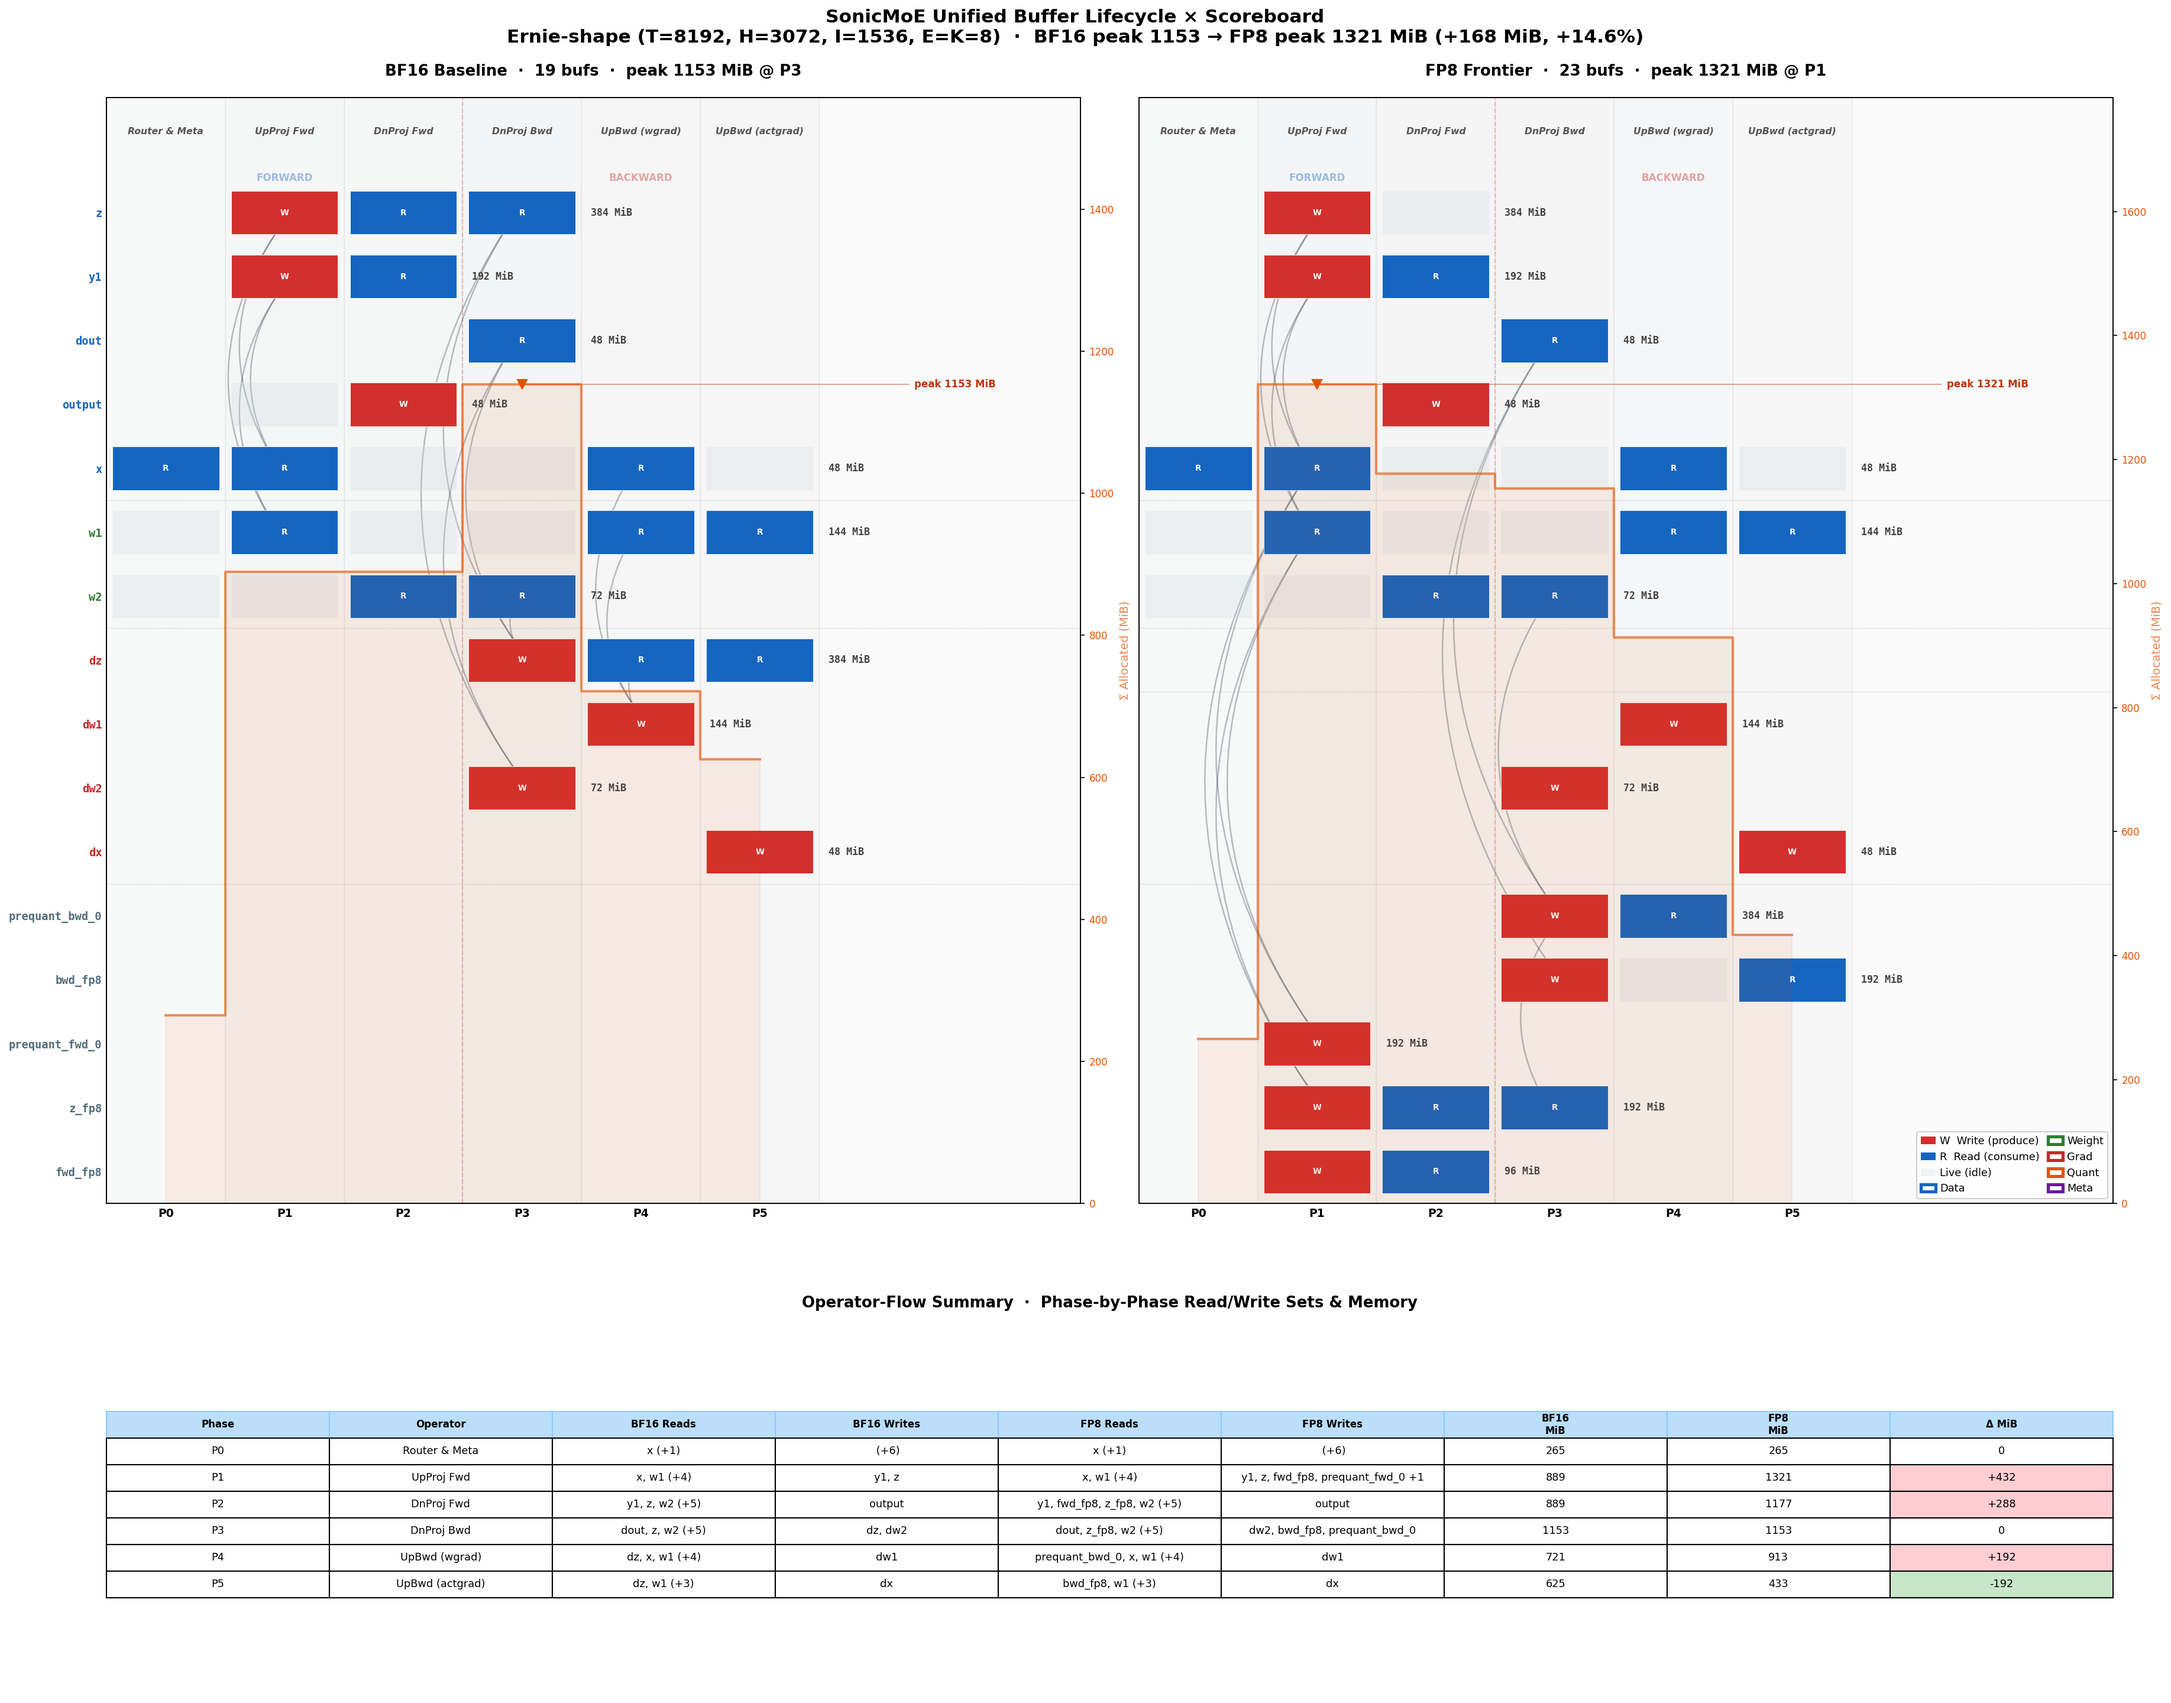
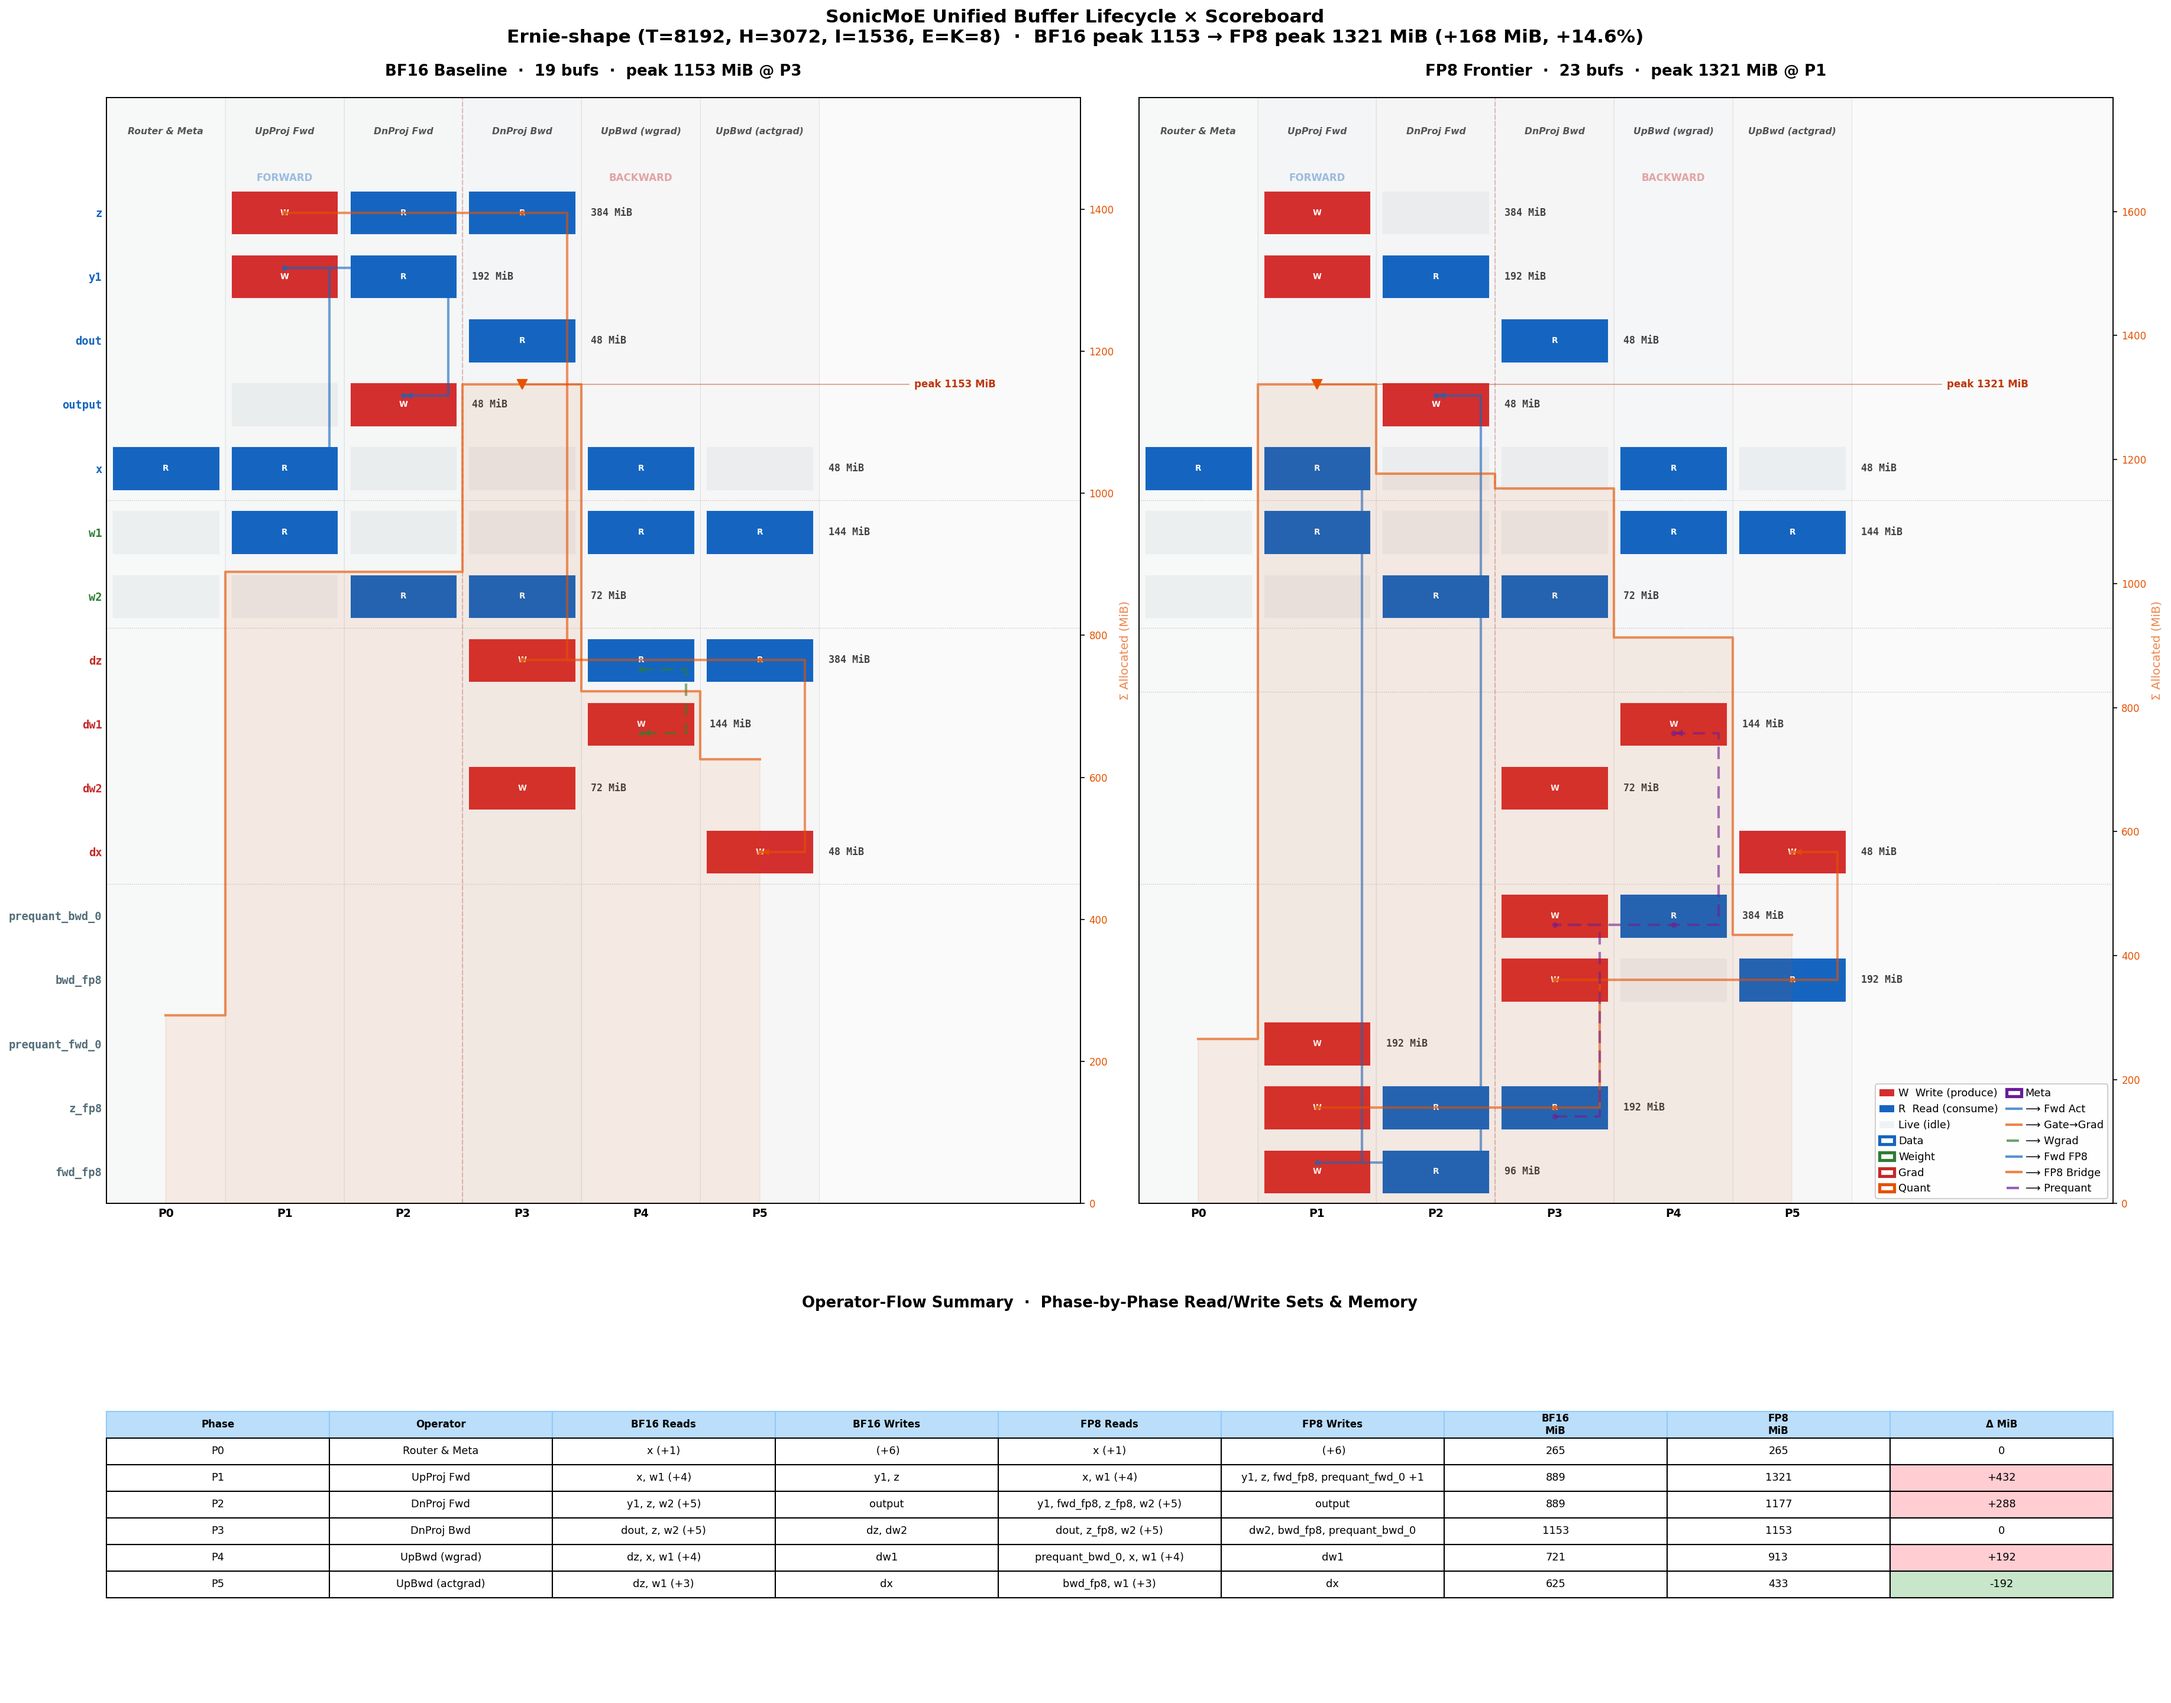
viz: replace DAG arc3 spaghetti with orthogonal chain polylines
Replace 12 overlapping arc3 curves (alpha=0.35, nearly invisible) with
3 critical-path dataflow chains per mode, drawn as clean orthogonal
polylines through the Gantt:

BF16: Fwd Act (x→y1→output), Gate→Grad (z→dz→dx), Wgrad (dz→dw1)
FP8:  Fwd FP8 (x→fwd_fp8→output), FP8 Bridge (z_fp8→bwd_fp8→dx),
      Prequant (z_fp8→prequant_bwd_0→dw1)

- Right-angle routing at same-phase transformations
- Horizontal carry-over for same-buffer cross-phase
- Directional arrowheads at chain termini
- Color-coded: blue=fwd, orange=bridge, green/purple=wgrad
- Chain legend entries integrated with existing legend

Changed region(s): [[0.8695, 0.625, 0.9627, 0.7188], [0.559, 0.375, 0.59, 0.4062]]

diff --git a/visualization/scoreboard_viz.py b/visualization/scoreboard_viz.py
@@ -22,6 +22,7 @@ import sys
 import matplotlib
 matplotlib.use("Agg")
 import matplotlib.pyplot as plt
+import matplotlib.lines as mlines
 import matplotlib.patches as mpatches
 import matplotlib.ticker as mticker
 import numpy as np
@@ -69,27 +70,94 @@ def _phase_mem(mode: dict) -> np.ndarray:
     return np.array([ph["alloc_mib"] for ph in mode["board"]])
 
 
-def _critical_flows(mode: dict, min_mib: float = 48) -> list[tuple]:
-    """Return [(src_buf, dst_buf, op_name, phase_idx), ...] for major flows."""
-    bufs = mode["bufs"]
-    flows = []
-    for op in mode["ops"]:
-        oname, phase = op["id"], op["phase"]
-        reads = [r for r in op["R"] if r in bufs and bufs[r]["mib"] >= min_mib]
-        writes = [w for w in op["W"] if w in bufs and bufs[w]["mib"] >= min_mib]
-        for r in reads:
-            for w in writes:
-                if r != w:
-                    flows.append((r, w, oname, phase))
-    flows.sort(key=lambda f: -bufs.get(f[1], {}).get("mib", 0))
-    seen = set()
-    unique = []
-    for f in flows:
-        key = (f[0], f[1], f[3])
-        if key not in seen:
-            seen.add(key)
-            unique.append(f)
-    return unique[:12]
+# ─── Critical dataflow chain definitions ─────────────────────────────
+# Waypoints: (buffer_name, phase_index).
+# Same-buffer consecutive = carry-over (horizontal).
+# Different-buffer = operator transformation (orthogonal right-angle routing).
+
+_CHAINS: dict[str, list[dict]] = {
+    "bf16": [
+        {"name": "Fwd Act",   "c": "#1565C0", "d": False,
+         "wps": [("x",1), ("y1",1), ("y1",2), ("output",2)]},
+        {"name": "Gate→Grad", "c": "#E65100", "d": False,
+         "wps": [("z",1), ("z",3), ("dz",3), ("dz",5), ("dx",5)]},
+        {"name": "Wgrad",     "c": "#2E7D32", "d": True,
+         "wps": [("dz",4), ("dw1",4)]},
+    ],
+    "fp8": [
+        {"name": "Fwd FP8",    "c": "#1565C0", "d": False,
+         "wps": [("x",1), ("fwd_fp8",1), ("fwd_fp8",2), ("output",2)]},
+        {"name": "FP8 Bridge",  "c": "#E65100", "d": False,
+         "wps": [("z_fp8",1), ("z_fp8",3), ("bwd_fp8",3), ("bwd_fp8",5), ("dx",5)]},
+        {"name": "Prequant",    "c": "#6A1B9A", "d": True,
+         "wps": [("z_fp8",3), ("prequant_bwd_0",3), ("prequant_bwd_0",4), ("dw1",4)]},
+    ],
+}
+
+
+def _draw_chains(ax: plt.Axes, mode_key: str,
+                 buf_idx: dict[str, int]) -> list[dict]:
+    """Draw critical-path dataflow chains as orthogonal polylines.
+
+    Returns list of chain defs that were actually rendered (for legend).
+    """
+    chains = _CHAINS.get(mode_key, [])
+    drawn: list[dict] = []
+    n = len(chains)
+
+    for ci, ch in enumerate(chains):
+        wps = [(b, p) for b, p in ch["wps"] if b in buf_idx]
+        if len(wps) < 2:
+            continue
+        drawn.append(ch)
+
+        color = ch["c"]
+        ls: object = (0, (5, 3)) if ch["d"] else "-"
+        v_off = (ci - (n - 1) / 2) * 0.14
+
+        # ── Build orthogonal path through the Gantt ──
+        path: list[tuple[float, float]] = []
+        for wi, (buf, phase) in enumerate(wps):
+            x, y = phase + 0.5, buf_idx[buf] + v_off
+            if wi == 0:
+                path.append((x, y))
+                continue
+            prev_buf, prev_ph = wps[wi - 1]
+            yp = buf_idx[prev_buf] + v_off
+            if prev_buf == buf:                          # carry-over
+                path.append((x, y))
+            elif prev_ph == phase:                       # same-phase op
+                x_jog = phase + 0.88
+                path.extend([(x_jog, yp), (x_jog, y), (x, y)])
+            else:                                        # cross-phase + buf
+                x_mid = max(prev_ph, phase) + 0.02
+                path.extend([(x_mid, yp), (x_mid, y), (x, y)])
+
+        if len(path) < 2:
+            continue
+
+        xs = [p[0] for p in path]
+        ys = [p[1] for p in path]
+
+        # Polyline shaft (with optional dashes)
+        ax.plot(xs, ys, color=color, lw=2.0, ls=ls, alpha=0.6, zorder=7,
+                solid_capstyle="round", solid_joinstyle="round")
+
+        # Arrowhead at terminus (invisible-shaft FancyArrowPatch)
+        arrow = mpatches.FancyArrowPatch(
+            (xs[-2], ys[-2]), (xs[-1], ys[-1]),
+            arrowstyle="-|>", color=color, lw=0.01,
+            alpha=0.7, mutation_scale=14, zorder=8,
+        )
+        ax.add_patch(arrow)
+
+        # Dots at actual waypoints (not routing-jog intermediates)
+        for buf, phase in wps:
+            if buf in buf_idx:
+                ax.plot(phase + 0.5, buf_idx[buf] + v_off, "o",
+                        color=color, ms=3.5, alpha=0.55, zorder=9)
+
+    return drawn
 
 
 # ═════════════════════════════════════════════════════════════════════════
@@ -97,7 +165,8 @@ def _critical_flows(mode: dict, min_mib: float = 48) -> list[tuple]:
 # ═════════════════════════════════════════════════════════════════════════
 
 def _draw_panel(ax: plt.Axes, mode: dict, buf_list: list[str],
-                title: str, show_ylabel: bool, draw_arrows: bool) -> None:
+                title: str, show_ylabel: bool,
+                mode_key: str = "") -> list[dict]:
     bufs = mode["bufs"]
     board = mode["board"]
     n_ph = len(board)
@@ -148,31 +217,11 @@ def _draw_panel(ax: plt.Axes, mode: dict, buf_list: list[str],
                 va="center", ha="left", fontsize=F["ann"],
                 color="#424242", fontfamily="monospace", fontweight="bold")
 
-    # ── DAG flow arrows (critical path only) ──
-    if draw_arrows:
-        flows = _critical_flows(mode, min_mib=48)
+    # ── Dataflow chain polylines (orthogonal routing) ──
+    drawn_chains: list[dict] = []
+    if mode_key:
         buf_idx = {bn: i for i, bn in enumerate(buf_list)}
-        drawn = set()
-        for src, dst, op, phase in flows:
-            if src not in buf_idx or dst not in buf_idx:
-                continue
-            yi = buf_idx[src]
-            yj = buf_idx[dst]
-            if abs(yi - yj) < 1:
-                continue
-            key = (src, dst, phase)
-            if key in drawn:
-                continue
-            drawn.add(key)
-            x_mid = phase + 0.5
-            rad = 0.35 if yj > yi else -0.35
-            ax.annotate("",
-                        xy=(x_mid + 0.05, yj), xytext=(x_mid - 0.05, yi),
-                        arrowprops=dict(
-                            arrowstyle="-|>", color="#37474F",
-                            connectionstyle=f"arc3,rad={rad}",
-                            lw=1.2, alpha=0.35, shrinkA=4, shrinkB=4),
-                        zorder=2)
+        drawn_chains = _draw_chains(ax, mode_key, buf_idx)
 
     # ── Memory envelope (secondary y-axis right) ──
     ax2 = ax.twinx()
@@ -233,6 +282,7 @@ def _draw_panel(ax: plt.Axes, mode: dict, buf_list: list[str],
     ax.set_facecolor("#FAFAFA")
     ax.set_title(title, fontsize=F["title"], fontweight="bold", pad=18)
     ax.tick_params(length=0)
+    return drawn_chains
 
 
 # ═════════════════════════════════════════════════════════════════════════
@@ -333,16 +383,16 @@ def render() -> None:
 
     pk_b = bf16["peak"]["alloc_mib"]
     pk_f = fp8["peak"]["alloc_mib"]
-    _draw_panel(ax_b, bf16, blist,
+    chains_b = _draw_panel(ax_b, bf16, blist,
                 f"BF16 Baseline  ·  {len(bf16['bufs'])} bufs  ·  "
                 f"peak {pk_b:.0f} MiB @ P{bf16['peak']['phase']}",
-                show_ylabel=True, draw_arrows=True)
-    _draw_panel(ax_f, fp8, blist,
+                show_ylabel=True, mode_key="bf16")
+    chains_f = _draw_panel(ax_f, fp8, blist,
                 f"FP8 Frontier  ·  {len(fp8['bufs'])} bufs  ·  "
                 f"peak {pk_f:.0f} MiB @ P{fp8['peak']['phase']}",
-                show_ylabel=False, draw_arrows=True)
+                show_ylabel=False, mode_key="fp8")
 
-    # Shared legend
+    # Shared legend (bar states + buffer classes + chain flows)
     leg = [
         mpatches.Patch(fc=_S["W"], label="W  Write (produce)"),
         mpatches.Patch(fc=_S["R"], label="R  Read (consume)"),
@@ -351,6 +401,15 @@ def render() -> None:
     for cls in ["data", "weight", "grad", "quant", "meta"]:
         leg.append(mpatches.Patch(fc="white", ec=_C[cls], lw=2.5,
                                   label=cls.title()))
+    # Chain flow entries (deduplicate by name across BF16/FP8)
+    seen_names: set[str] = set()
+    for ch in chains_b + chains_f:
+        if ch["name"] not in seen_names:
+            seen_names.add(ch["name"])
+            ls = (0, (5, 3)) if ch["d"] else "-"
+            leg.append(mlines.Line2D([0], [0], color=ch["c"], lw=2.0,
+                                     ls=ls, alpha=0.7,
+                                     label=f"⟶ {ch['name']}"))
     ax_f.legend(handles=leg, fontsize=F["leg"], loc="lower right",
                 ncol=2, framealpha=0.92, handlelength=1.4,
                 handletextpad=0.4, columnspacing=0.8,
